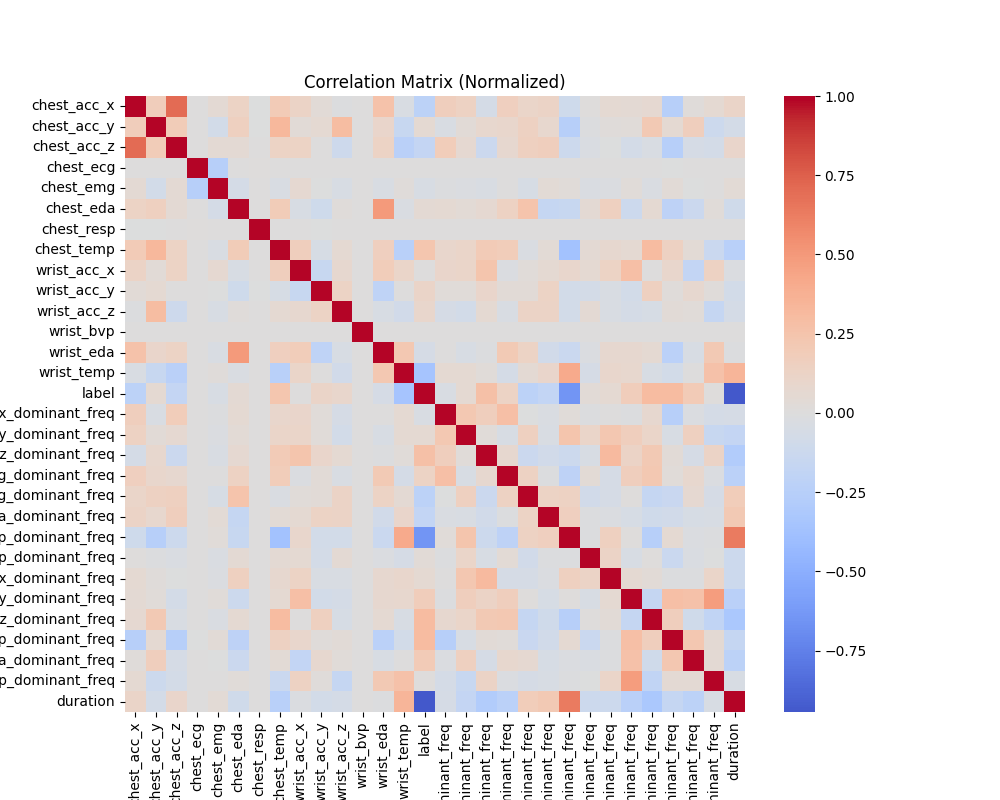
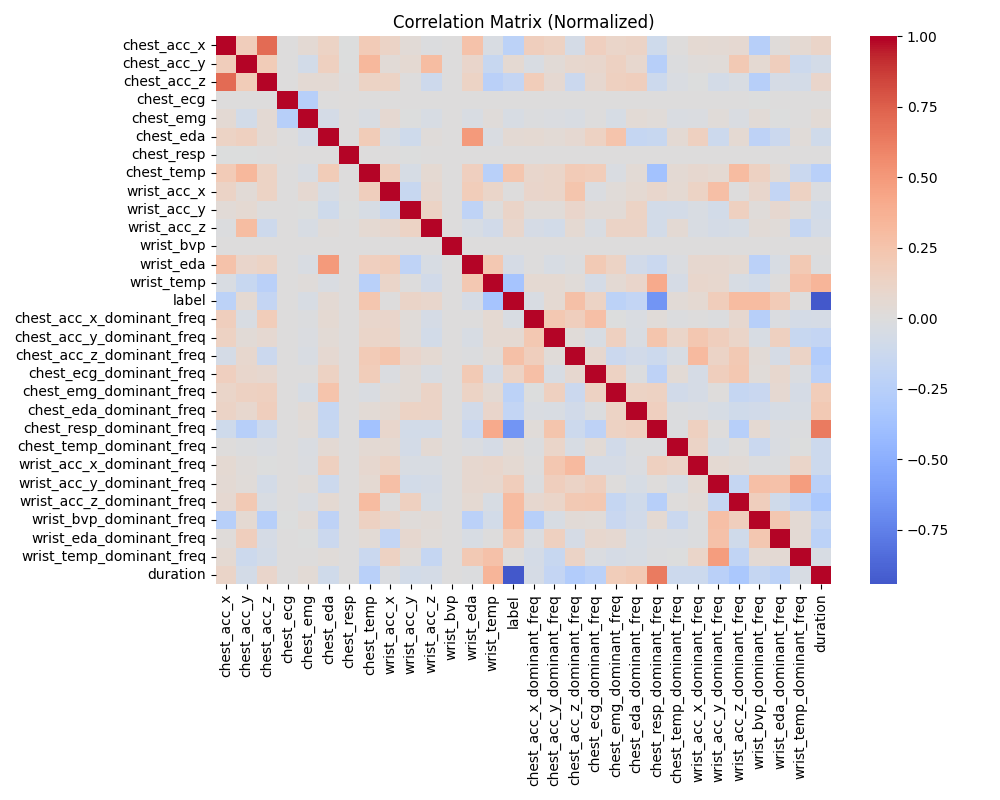
update correlation matrix

diff --git a/Code/read_sensor.py b/Code/read_sensor.py
@@ -464,11 +464,12 @@ def full_data_groundtruth(dataFolder, subjects, type='both', questionnaires=Fals
     # plt.savefig('./EDA/labels_distribution.png')
     # plt.show()
     
-    # correlation matrix to check the relationships of features
+    ## correlation matrix to check the relationships of features
     # correlation_matrix = all_subjects.corr()
     # plt.figure(figsize=(10, 8))
     # sns.heatmap(correlation_matrix, annot=False, cmap='coolwarm', center=0)
     # plt.title("Correlation Matrix (Normalized)")
+    # plt.tight_layout()
     # plt.savefig("./EDA/corr.png")
     # plt.show()
 
